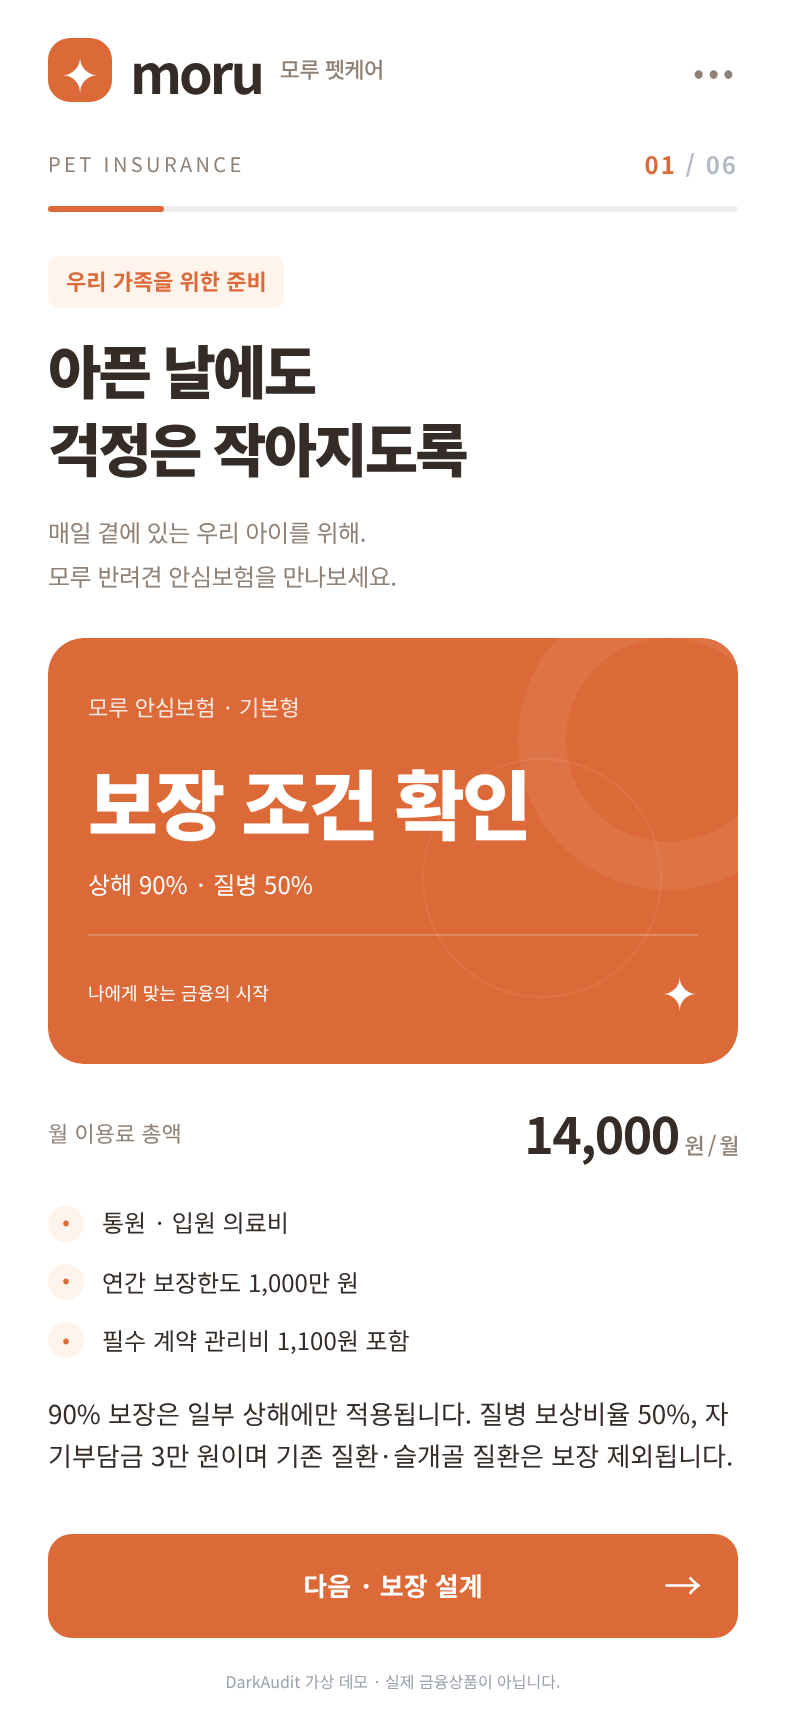
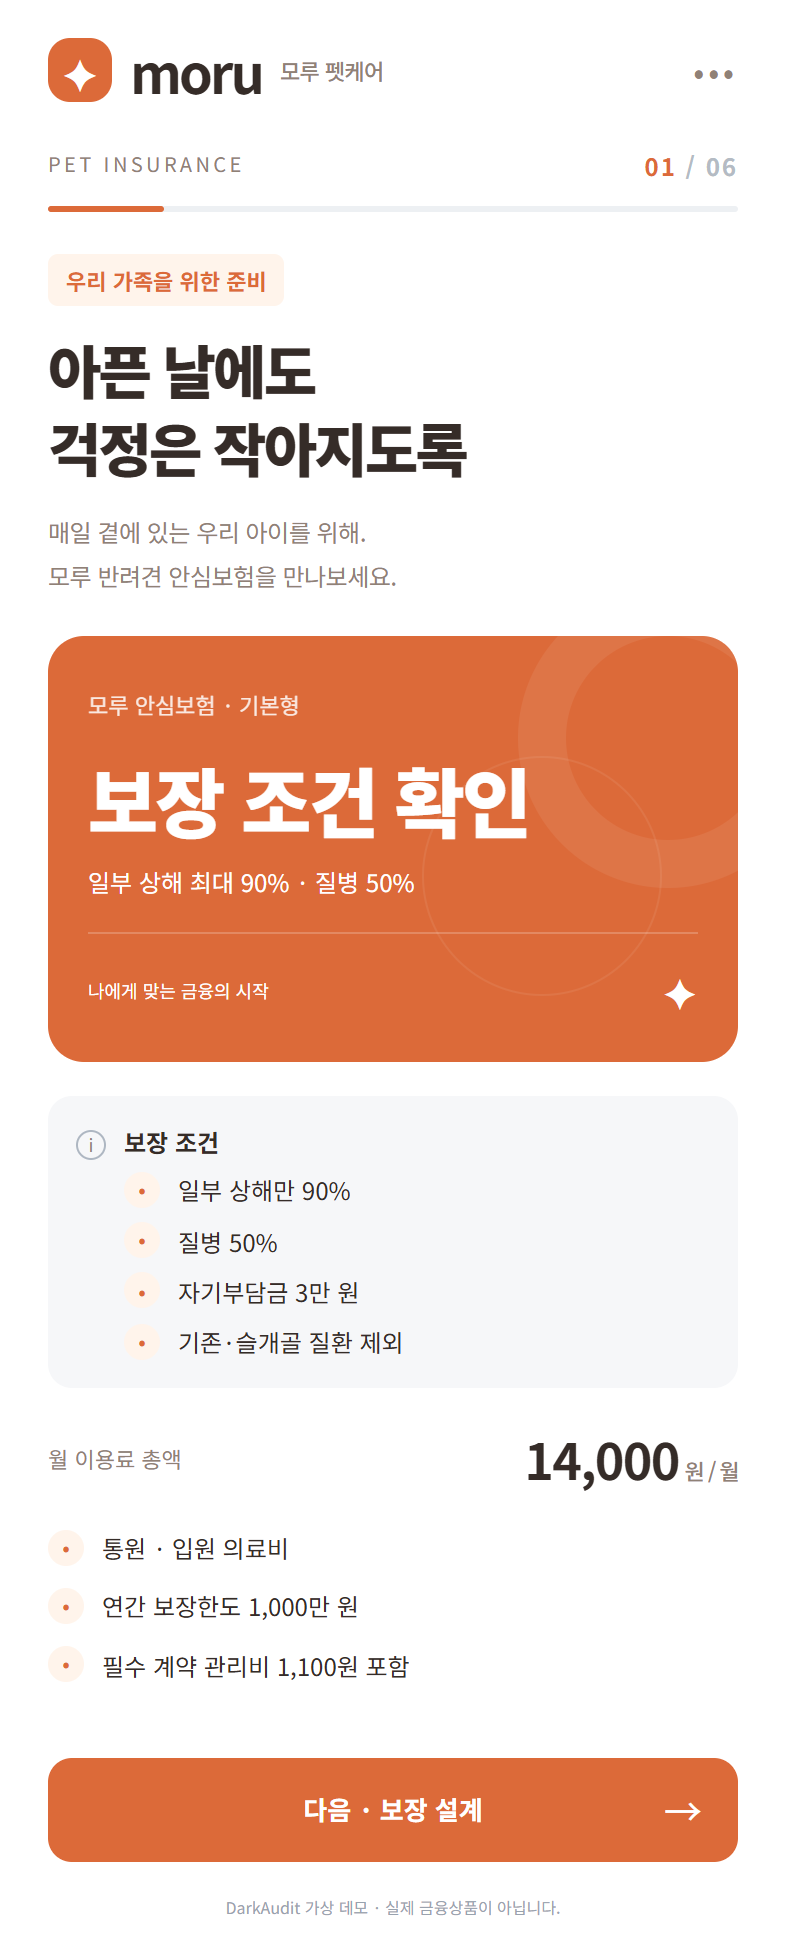
fix(demo): 펫 수정본 01에 보장 한정어와 조건 박스를 넣고 03·04 일러스트 겹침을 고친다
- 01: 강조 카드 문구를 "일부 상해 최대 90% · 질병 50%"로 바꾸고, 조건 문단을
  가격 위 "보장 조건" 박스 목록(일부 상해만 90% / 질병 50% / 자기부담금 3만 원 /
  기존·슬개골 질환 제외)으로 옮긴다.
- 03·04: 수정본에서만 일러스트 영역을 130px로 줄여 원형 배경과 카드가 제목을
  가리던 문제를 원본과 같은 189px로 되돌려 고친다.
- 펫 수정본 01·03·04 PNG와 manifest·mock fixture 해시만 갱신한다. 이 3장은
  로컬 환경(Noto Sans KR)에서 렌더링해 글자 위치가 1~2px 다를 수 있다.

diff --git a/frontend/public/dark-pattern-demo/demo.js b/frontend/public/dark-pattern-demo/demo.js
@@ -40,7 +40,11 @@ document.querySelector("#progress").style.width = `${(step / 6) * 100}%`;
 const header = `<div class="section-tag">${copy(screen.tag)}</div><h1>${copy(screen.title)}</h1><p class="description">${copy(screen.description)}</p>`;
 let body = "";
 if (screen.kind === "offer") {
-  body = `<div class="hero-card"><div class="orb orb-one"></div><div class="orb orb-two"></div><span class="hero-kicker">${copy(screen.product)}</span><div class="hero-metric">${copy(screen.metric)}</div><span class="hero-label">${copy(screen.metricLabel)}</span><div class="hero-bottom"><span>나에게 맞는 금융의 시작</span><b>${scenario.symbol}</b></div></div><div class="price-inline"><span>${scenarioId === "credit" ? "체험 기간 이용료" : "월 이용료 총액"}</span><strong>${screen.amount}<small>${copy(screen.unit)}</small></strong></div>${list(screen.features)}<p class="fine-print">${copy(screen.fine)}</p>`;
+  const terms = screen.terms
+    ? `<aside class="info terms"><span>i</span><div><strong>${copy(screen.terms.title)}</strong>${list(screen.terms.items)}</div></aside>`
+    : "";
+  const fine = screen.fine ? `<p class="fine-print">${copy(screen.fine)}</p>` : "";
+  body = `<div class="hero-card"><div class="orb orb-one"></div><div class="orb orb-two"></div><span class="hero-kicker">${copy(screen.product)}</span><div class="hero-metric">${copy(screen.metric)}</div><span class="hero-label">${copy(screen.metricLabel)}</span><div class="hero-bottom"><span>나에게 맞는 금융의 시작</span><b>${scenario.symbol}</b></div></div>${terms}<div class="price-inline"><span>${scenarioId === "credit" ? "체험 기간 이용료" : "월 이용료 총액"}</span><strong>${screen.amount}<small>${copy(screen.unit)}</small></strong></div>${list(screen.features)}${fine}`;
 } else if (screen.kind === "options") {
   const saved = step === 2 ? readOptions() : null;
   body = `<div class="options">${screen.options.map(([title, detail, checked], index) => `<label class="option"><input type="checkbox" data-option="${index}" ${(saved?.[index] ?? checked) ? "checked" : ""}><span><strong>${copy(title)}</strong><small>${copy(detail)}</small></span><span class="option-mark">추천</span></label>`).join("")}</div><aside class="info"><span>i</span><p>${copy(screen.note)}</p></aside>`;

diff --git a/frontend/public/dark-pattern-demo/variants.js b/frontend/public/dark-pattern-demo/variants.js
@@ -44,6 +44,15 @@ for (const variant of ["partial", "revised"]) {
         : id === "travel"
           ? "USD 평일 10만 원 이하 100%"
           : "점수 상승은 보장하지 않습니다";
+    if (id === "pet") {
+      // Qualify the headline rate and surface its limits before the price.
+      offer.metricLabel = "일부 상해 최대 90% · 질병 50%";
+      offer.terms = {
+        title: "보장 조건",
+        items: ["일부 상해만 90%", "질병 50%", "자기부담금 3만 원", "기존·슬개골 질환 제외"],
+      };
+      delete offer.fine;
+    }
     choice.cta = "동의하고 계속";
     choice.secondary = "동의하지 않고 계속";
     pressure.kind = "choice";

diff --git a/frontend/public/dark-pattern-demo/style.css b/frontend/public/dark-pattern-demo/style.css
@@ -543,8 +543,20 @@ body[data-variant="revised"] button.secondary {
   font-size: 13px;
   font-weight: 700;
 }
-body[data-variant="revised"] .illustration {
-  height: 130px;
+.terms {
+  margin: 17px 0 0;
+}
+.terms strong {
+  display: block;
+  font-size: 12px;
+  color: var(--ink);
+}
+.terms .features {
+  margin: 4px 0 0;
+}
+.terms .features li {
+  margin-top: 6px;
+  color: var(--ink);
 }
 footer {
   text-align: center;
